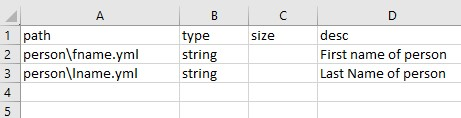
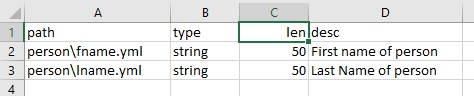
docs update

Changed region(s): [[0.0, 0.0312, 1.0, 1.0]]

diff --git a/yml2tsv/readme.md b/yml2tsv/readme.md
@@ -28,9 +28,9 @@ yml2csv  -in=../data/data-dict/db -out=tmp.tsv glob=*.yml  -vars=type,len,desc
 ## Example Output
 
 ```
-path    type    size    desc
-person\fname.yml        string          First name of person
-person\lname.yml        string          Last Name of person
+path    type    len     desc
+person\fname.yml        string  50      First name of person
+person\lname.yml        string  50      Last Name of person
 ```
 
 ## Example Output in Excel
